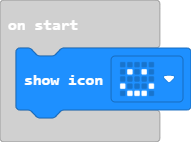
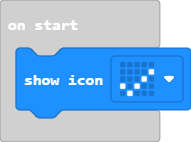
Update main.blocks, main.ts

Changed region(s): [[0.6806, 0.4789, 0.8115, 0.7042], [0.6545, 0.4789, 0.7068, 0.5352]]

diff --git a/main.ts b/main.ts
@@ -4,4 +4,4 @@ input.onButtonPressed(Button.A, function () {
 input.onButtonPressed(Button.B, function () {
     basic.showIcon(IconNames.SmallHeart)
 })
-basic.showIcon(IconNames.Happy)
+basic.showIcon(IconNames.Yes)
